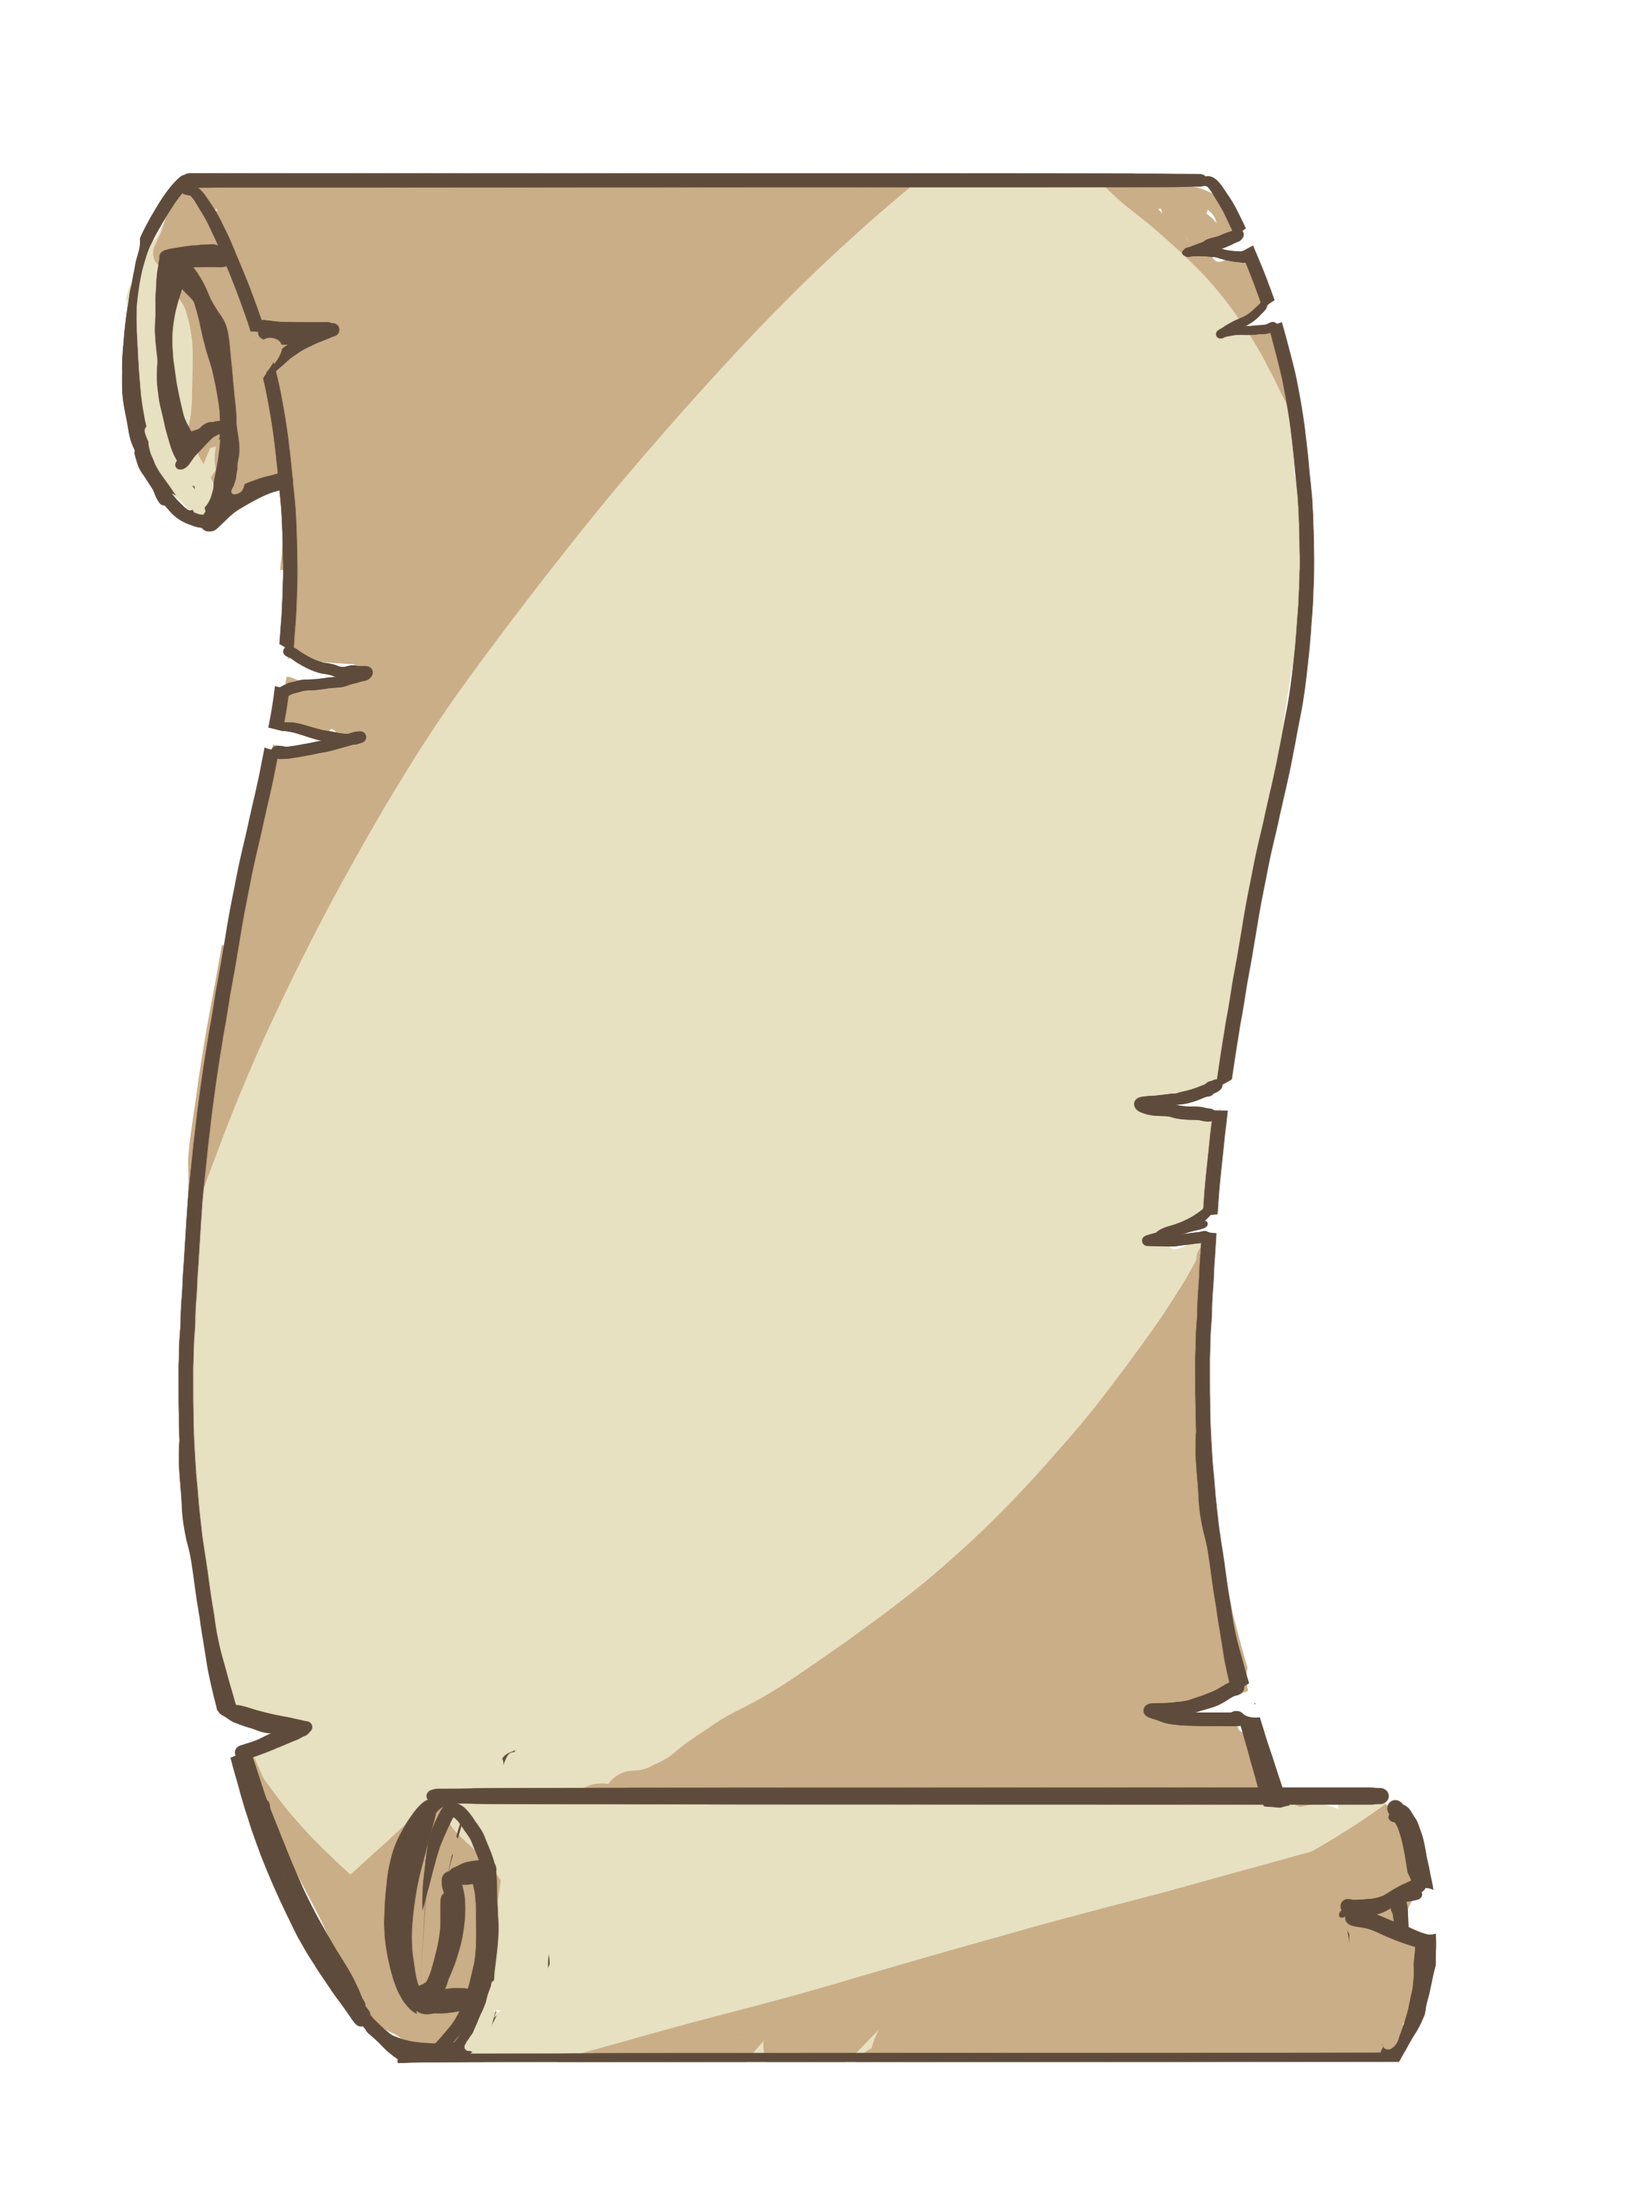
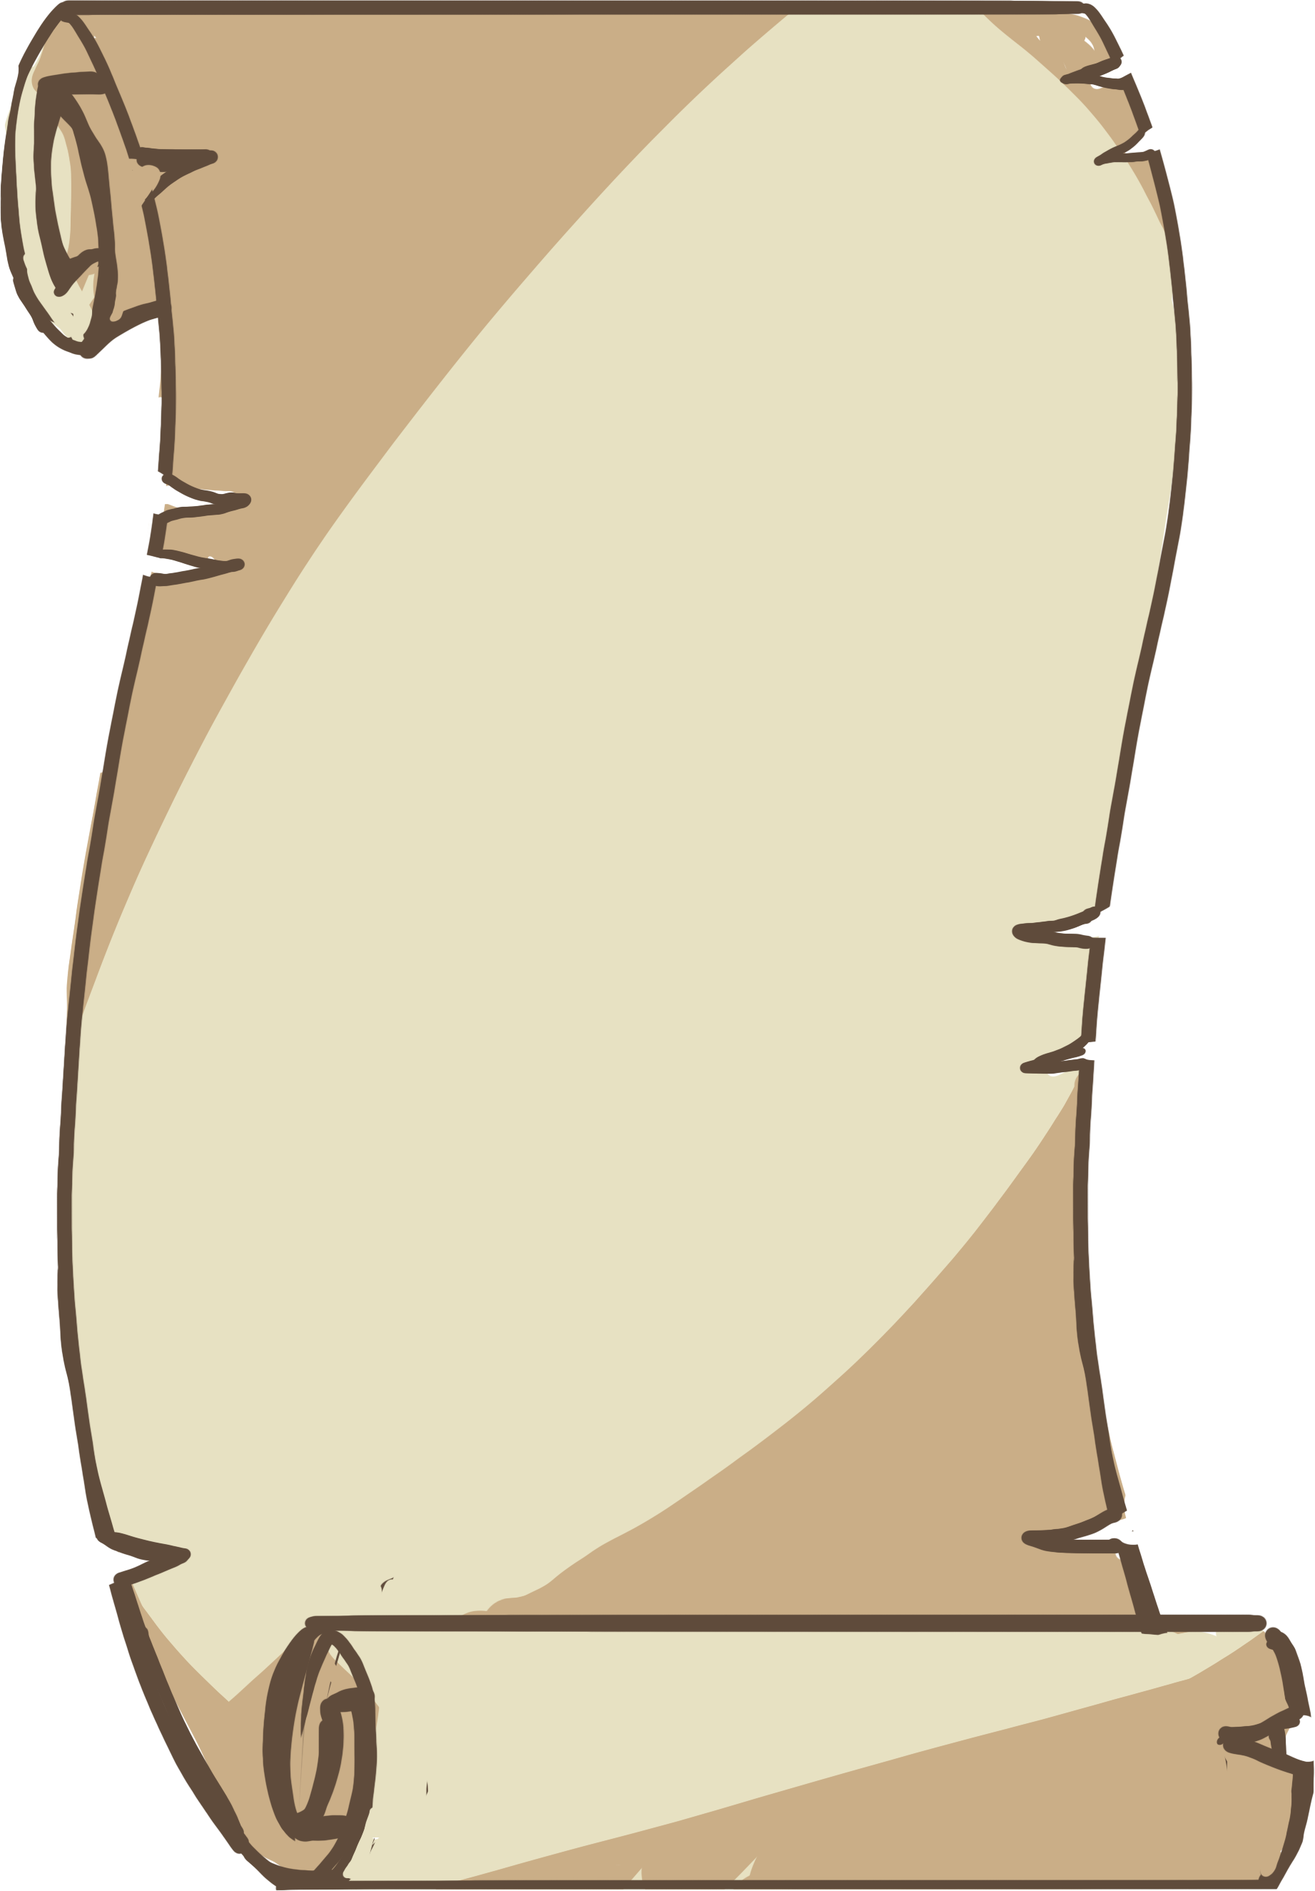
replaced menu art and tweaked formatting

diff --git a/assets/css/style.css b/assets/css/style.css
@@ -766,7 +766,7 @@
 }
 
 #menu-scroll {
-     background-image: url("../buttons/dialogueScroll.png");
+     background-image: url(../art/pop-ups/pop-up-menu.png);
      background-repeat: no-repeat;
      background-size: cover;
      background-position-x: center;
@@ -774,8 +774,8 @@
      left: 50%;
      top: 50%;
      transform: translate(-50%, -50%);
-     height: 80%;
-     width: 70%;
+     height: 74vh;
+     width: 92vw;
  }
 
  #menu-text-box {
@@ -784,7 +784,7 @@
     top: 52%;
     transform: translate(-50%, -50%);
     height: 50vh;
-    width: 80vw;
+    width: 65vw;
     text-align: center;
  }
 
@@ -794,13 +794,18 @@
  }
 
 #menu-screen .button {
-    width: 65%;
+    width: 73%;
     position: inherit;
     top: 0;
     margin-top: 3%;
     transform: scale(1);
     transition: transform 20ms ease-in-out;
-    font-size: 6vw;
+    font-size: 115%;
+    background-color: rgb(236, 214, 184);
+    outline: rgba(138, 95, 65, 0.534) 2px solid;
+    padding-top: 2%;
+    padding-bottom: 2%;
+    margin-top: 7%;
 }
 
 #menu-screen h2 {
@@ -821,6 +826,10 @@
         max-height: 1024px;
         left: calc(50% - 384px);
     }
+    #menu-scroll {
+        height: 73%;
+        width: 68%;
+    }
 
     #menu-text-box {
         top: 58%;
@@ -829,8 +838,7 @@
     }
 
     #menu-screen .button {
-        width: 75%;
-        font-size: 32px;
+        font-size: 200%;
     }
 
     #menu-screen h2 {

diff --git a/index.html b/index.html
@@ -368,11 +368,10 @@
                 <ul>
                     <li><button id="new-game" class="button"> New Game</button></li>
                     <li><button class="button">
-                            <a href="https://www.instagram.com/rudolf_y_art/" target="_blank">Visit Artist Site</a>
+                            <a href="https://www.instagram.com/rudolf_y_art/" target="_blank">Artist Portfolio</a>
                         </button></li>
                     <li><button class="button">
-                            <a href="https://littleblue418.github.io/Milestone1/" target="_blank">Visit Developer
-                                Site</a>
+                            <a href="https://littleblue418.github.io/Milestone1/" target="_blank">Developer Portfolio</a>
                         </button></li>
                     <li><button id="close-menu" class="button">Close</button></li>
                 </ul>
